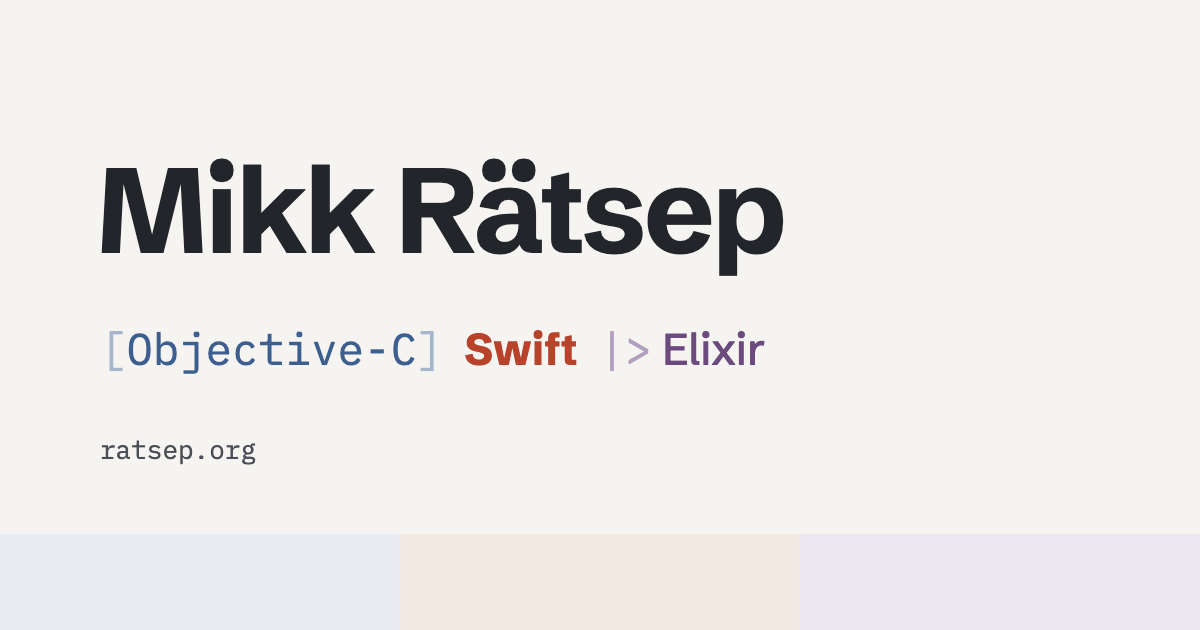
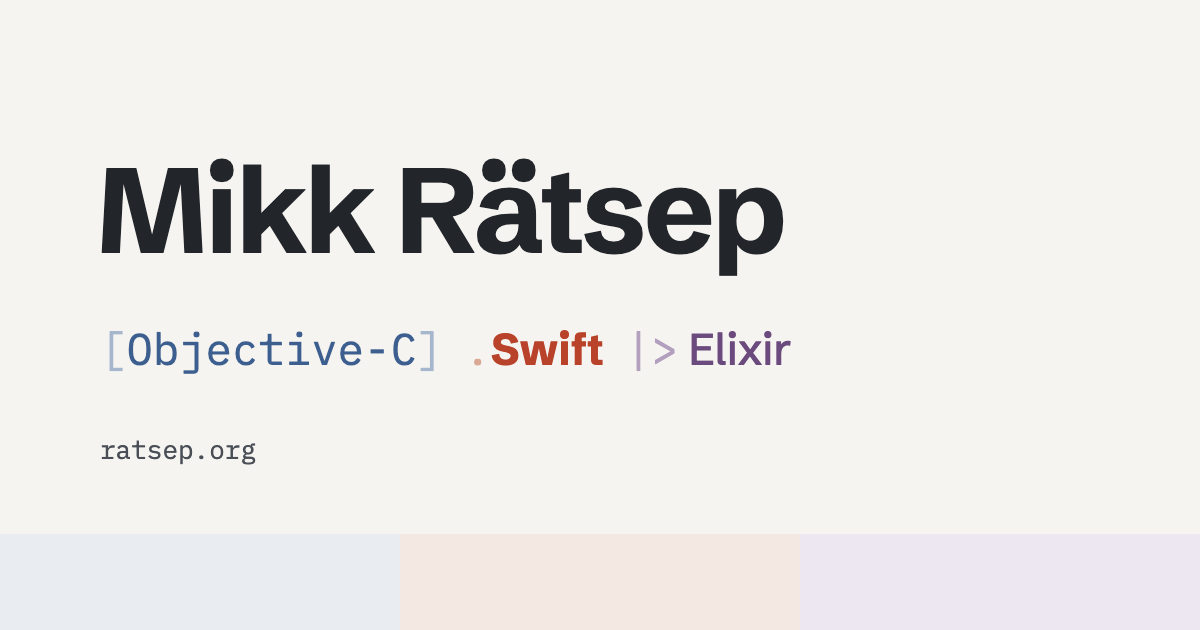
give swift its dot

Changed region(s): [[0.37, 0.5127, 0.6783, 0.6032]]

diff --git a/style.css b/style.css
@@ -9,7 +9,7 @@
   color-scheme: light;
   --bg: #F5F4F0; --ink: #22252A; --body: #3A3F47; --muted: #4A4F57; --rule: #D9D8D2;
   --oc-band: #E9EDF2; --oc-accent: #3D5F8F; --oc-soft: #A6B6CC; --oc-body: #343A44; --oc-muted: #4A5566; --oc-note: #4A5566;
-  --sw-band: #F4E9E2; --sw-accent: #B9432A; --sw-soft: #E9CFC3; --sw-body: #3E3430; --sw-muted: #5A4A44; --sw-note: #766660;
+  --sw-band: #F4E9E2; --sw-accent: #B9432A; --sw-soft: #D9A994; --sw-body: #3E3430; --sw-muted: #5A4A44; --sw-note: #766660;
   --ex-band: #ECE7F0; --ex-accent: #6B4A7D; --ex-soft: #B3A0BF; --ex-body: #3A3340; --ex-muted: #554B5B; --ex-note: #6F6574;
   --mono: "IBM Plex Mono", ui-monospace, monospace;
   --sans: "Schibsted Grotesk", system-ui, sans-serif;
@@ -19,7 +19,7 @@
   color-scheme: dark;
   --bg: #1B1E23; --ink: #ECE9E4; --body: #C4C8CE; --muted: #A8ADB5; --rule: #343941;
   --oc-band: #1A2230; --oc-accent: #8FB0E0; --oc-soft: #4E6584; --oc-body: #C9CFD8; --oc-muted: #9AA6B8; --oc-note: #9AA6B8;
-  --sw-band: #2A1F1B; --sw-accent: #F08A6C; --sw-soft: #4A3129; --sw-body: #D8CCC7; --sw-muted: #BBA49B; --sw-note: #A08D85;
+  --sw-band: #2A1F1B; --sw-accent: #F08A6C; --sw-soft: #6E4536; --sw-body: #D8CCC7; --sw-muted: #BBA49B; --sw-note: #A08D85;
   --ex-band: #241D2B; --ex-accent: #C3A6DA; --ex-soft: #6C5880; --ex-body: #D3CCD9; --ex-muted: #ABA0B5; --ex-note: #8F849B;
 }
 
@@ -61,19 +61,23 @@ a:focus-visible, button:focus-visible { outline: 2px solid currentColor; outline
 .lang-oc { font-family: var(--mono); color: var(--oc-accent); }
 .lang-oc .b-l, .lang-oc .b-r { color: var(--oc-soft); }
 .lang-sw { font-weight: 700; color: var(--sw-accent); }
+.lang-sw .dot { font-family: var(--mono); font-weight: 500; color: var(--sw-soft); }
+.band-sw .era-name .soft { font-family: var(--mono); font-weight: 500; }
 .lang-ex { color: var(--ex-accent); }
 .lang-ex .pipe { font-family: var(--mono); color: var(--ex-soft); }
 
 .lang-oc .b-l, .lang-oc .b-r { transition: opacity .45s cubic-bezier(.2,.9,.2,1) .5s, transform .45s cubic-bezier(.2,.9,.2,1) .5s; }
 .lang-oc .name { transition: opacity .4s ease-out .35s; }
-.lang-sw .ha { transition: opacity .3s cubic-bezier(.1,.9,.2,1) 1.15s, transform .3s cubic-bezier(.1,.9,.2,1) 1.15s; }
+.lang-sw .dot { transition: opacity .35s cubic-bezier(.3,.7,.2,1) .95s, transform .35s cubic-bezier(.3,.7,.2,1) .95s; }
+.lang-sw .word { transition: opacity .3s cubic-bezier(.1,.9,.2,1) 1.15s, transform .3s cubic-bezier(.1,.9,.2,1) 1.15s; }
 .lang-ex .pipe { transition: opacity .4s cubic-bezier(.3,.7,.2,1) 1.65s, transform .4s cubic-bezier(.3,.7,.2,1) 1.65s; }
 .lang-ex .push { transition: opacity .4s cubic-bezier(.3,.7,.2,1) 1.85s, transform .4s cubic-bezier(.3,.7,.2,1) 1.85s; }
 
 html.js .hero:not(.in) .lang .ha { opacity: 0; }
 html.js .hero:not(.in) .lang-oc .b-l { transform: translateX(-0.5em); }
 html.js .hero:not(.in) .lang-oc .b-r { transform: translateX(0.5em); }
-html.js .hero:not(.in) .lang-sw .ha { transform: translateX(-0.6em); }
+html.js .hero:not(.in) .lang-sw .dot { transform: translateX(-0.8em); }
+html.js .hero:not(.in) .lang-sw .word { transform: translateX(-0.6em); }
 html.js .hero:not(.in) .lang-ex .pipe { transform: translateX(-0.9em); }
 html.js .hero:not(.in) .lang-ex .push { transform: translateX(-0.35em); }
 

diff --git a/index.html b/index.html
@@ -68,7 +68,7 @@
 </header>
 <section class="hero">
 <h1>Mikk Rätsep</h1>
-<p>Software engineer in Tallinn. Fifteen years of writing <a class="lang lang-oc" href="#objc"><span class="ha b-l">[</span><span class="ha name">Objective‑C</span><span class="ha b-r">]</span></a>, <a class="lang lang-sw" href="#swift"><span class="ha">Swift</span></a> and <a class="lang lang-ex" href="#elixir"><span class="ha pipe">|&gt;</span> <span class="ha push">Elixir</span></a>, much of it on Bluetooth, security and vehicle data, from iPhone apps to the protocol between phone and car to the backend behind it all.</p>
+<p>Software engineer in Tallinn. Fifteen years of writing <a class="lang lang-oc" href="#objc"><span class="ha b-l">[</span><span class="ha name">Objective‑C</span><span class="ha b-r">]</span></a>, <a class="lang lang-sw" href="#swift"><span class="ha dot">.</span><span class="ha word">Swift</span></a> and <a class="lang lang-ex" href="#elixir"><span class="ha pipe">|&gt;</span> <span class="ha push">Elixir</span></a>, much of it on Bluetooth, security and vehicle data, from iPhone apps to the protocol between phone and car to the backend behind it all.</p>
 <p>Today I work on a pipeline that moves millions of car data points an hour: integrations across carmakers, multiple layers deep and fault‑tolerant by design.</p>
 </section>
 </div>
@@ -157,7 +157,7 @@
 <section id="swift" class="band band-sw">
 <div class="inner split">
 <div class="left era-title">
-<div class="era-name">Swift</div>
+<div class="era-name"><span class="soft">.</span>Swift</div>
 <div class="years tnum">2014 – today</div>
 </div>
 <div class="right">
